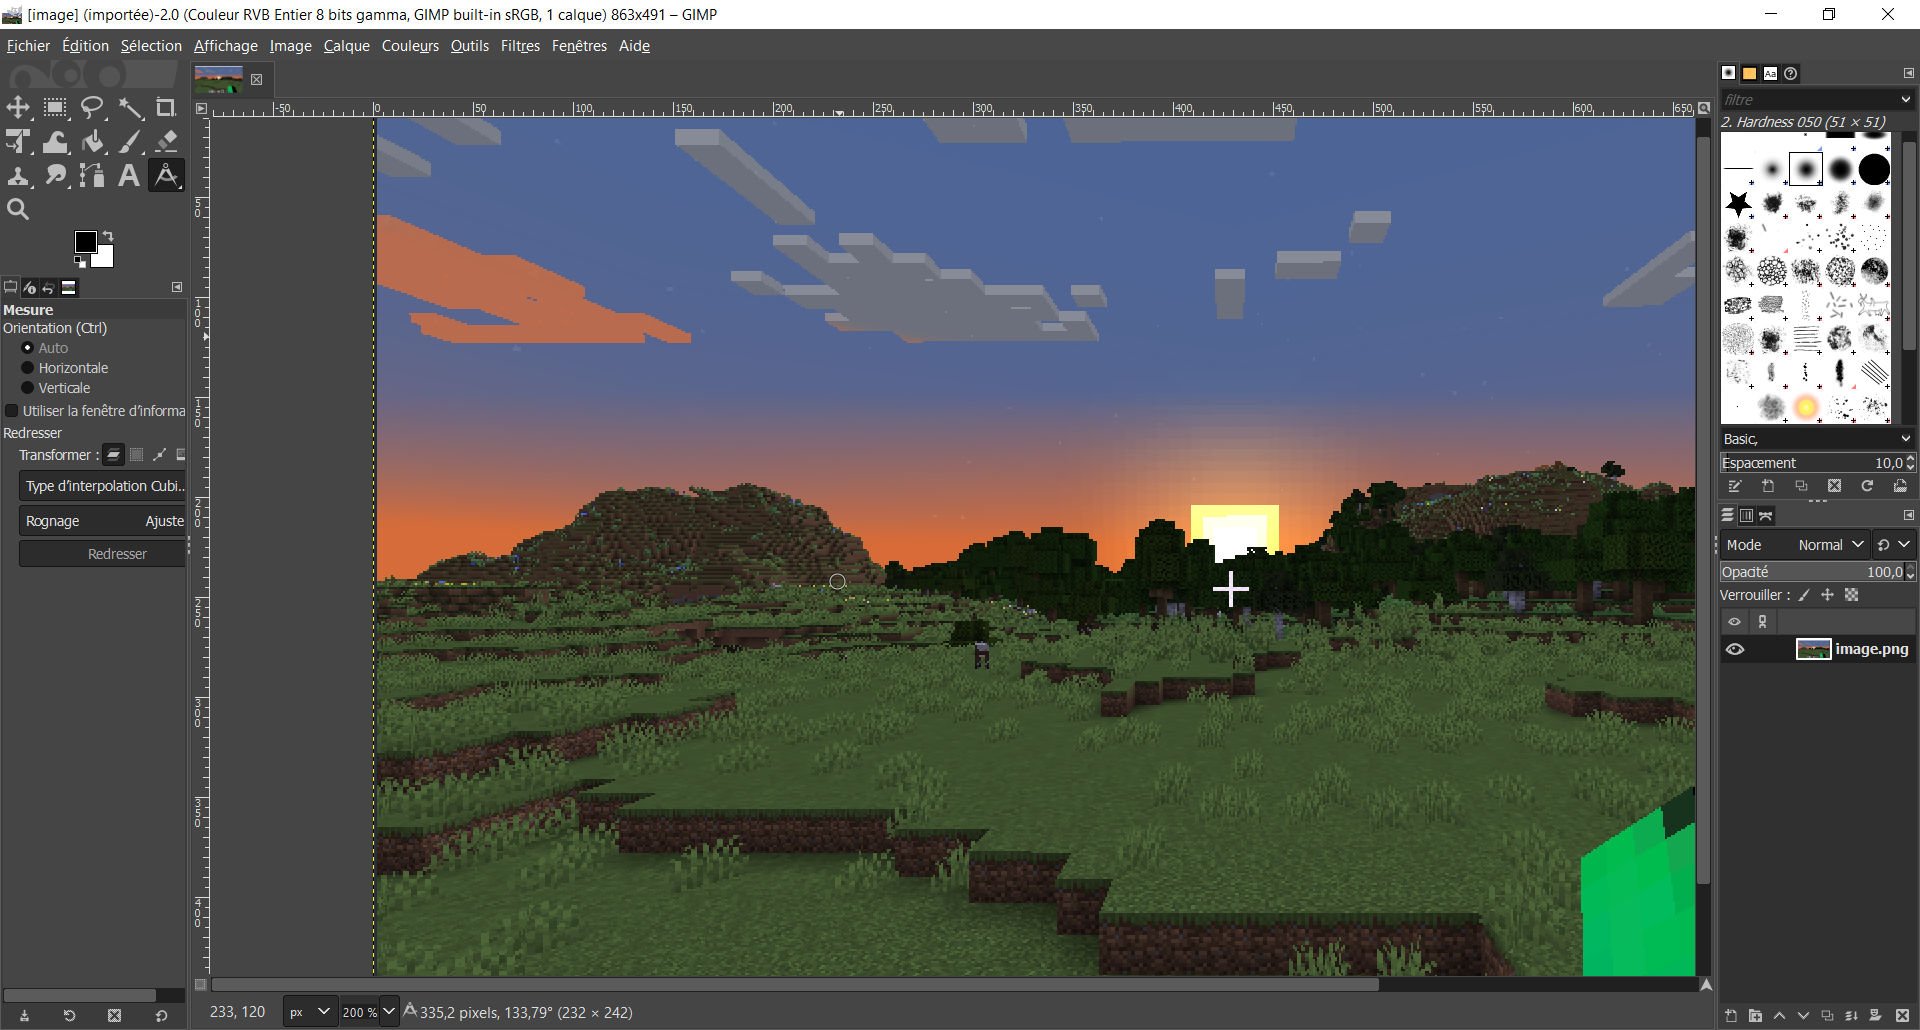
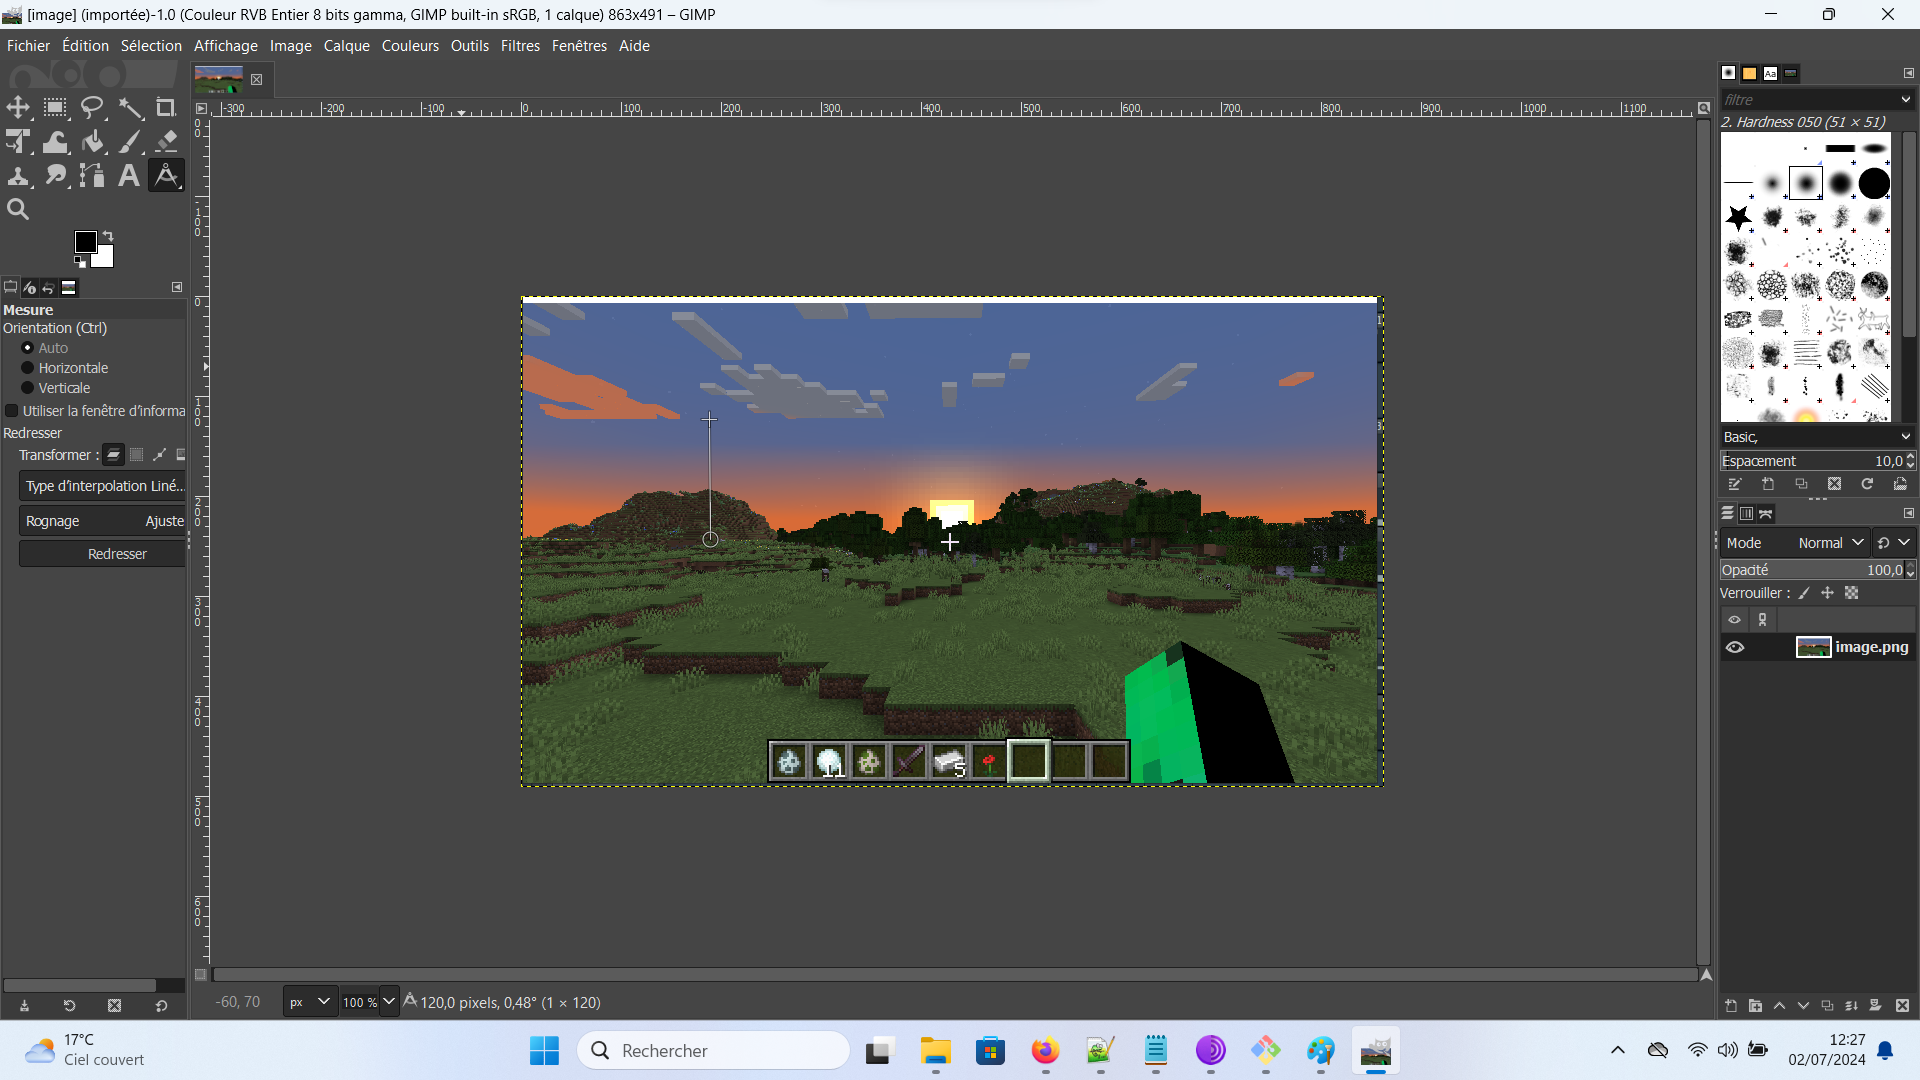
values and images

diff --git a/content/minecraft-speedrun/finding-player-location-on-minecraft-picture-geoint-methodo.md b/content/minecraft-speedrun/finding-player-location-on-minecraft-picture-geoint-methodo.md
@@ -141,44 +141,44 @@ Href = 128 cubes.
 
 - 1: download GIMP
 - 2: Open the image above with GIMP
-- 3: Select the measure tool and read `335,2` pixels (see below).
-![image](/gogo-s-blog-cpe/minecraft-speedrun/finding-player-location-on-minecraf-picture-geoint-methodo/gimp.png)
+- 3: Select the measure tool and read `120` pixels (see below).
+![image](/gogo-s-blog-cpe/minecraft-speedrun/finding-player-location-on-minecraf-picture-geoint-methodo/gimp-cloud.png)
 
 
 Then the pixel height of the reference object (here the cloud) is `284,2` pixels.
 
 
-Pref = `284,2` pixels.
+Pref = `120` pixels.
 
 # Chapter 1.4, find montain height (Pmountain):
 
 - 1: download GIMP
 - 2: Open the image above with GIMP
-- 3: Select the measure tool and read `133,8` pixels (see below).
+- 3: Select the measure tool and read `50` pixels (see below).
 ![image](/gogo-s-blog-cpe/minecraft-speedrun/finding-player-location-on-minecraf-picture-geoint-methodo/gimp-montain.png)
 
-Then the pixel height of the reference object (here the cloud) is `133,8` pixels.
+Then the pixel height of the reference object (here the cloud) is `50` pixels.
 
 
-Pref = `133,8` pixels.
+Pref = `50` pixels.
 
 # Chapter 1.5, find calculate ratio (Height Ratio):
 
 height ratio = Pmontain / Pref
-height ratio = `133,8` pixels / `284,2` pixels
-height ratio = `0,470` pixels
+height ratio = `50` pixels / `120` pixels
+height ratio = `0,41666` pixels
 
-`height ratio = 0,470 pixels`
+`height ratio = 0,41666 pixels`
 
 # Chapter 1.6, find montain height (Hmountain):
 
 Hmountain = Height Ratio * Href
 
 height montain = Hmountain
-height montain = 0,470 * 128
-height montain = 60,16 cubes
+height montain = 0,41666 * 128
+height montain = 53,332 cubes
 
-`height montain = 60,16 cubes`
+`height montain = 53,332 cubes`
 
 
 # Chapter 2, finding left montain distance from player
